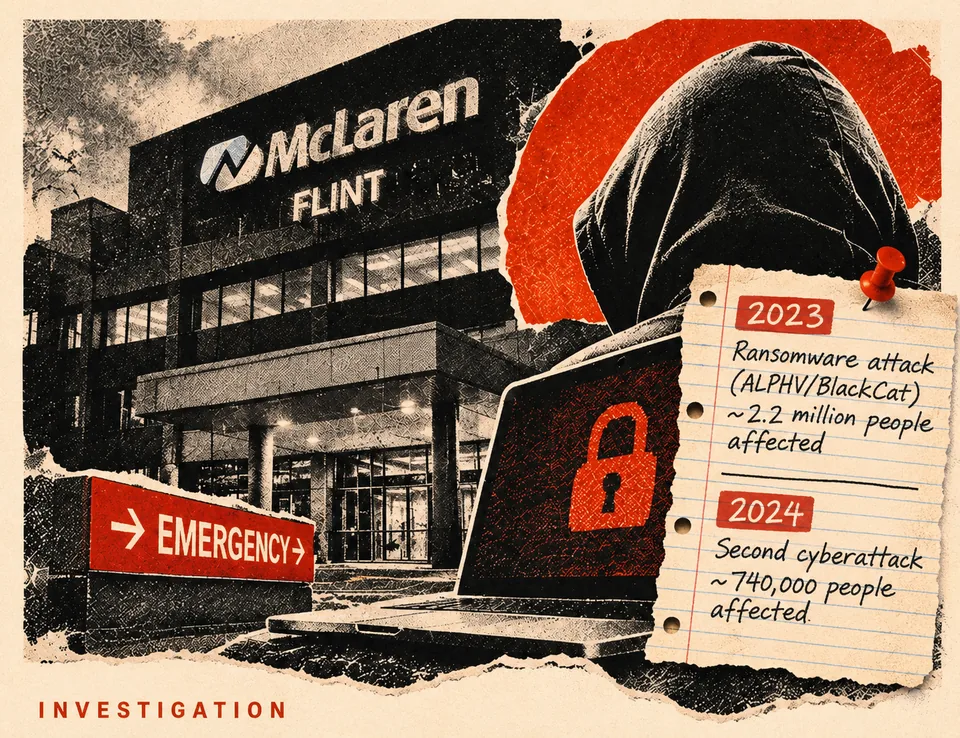
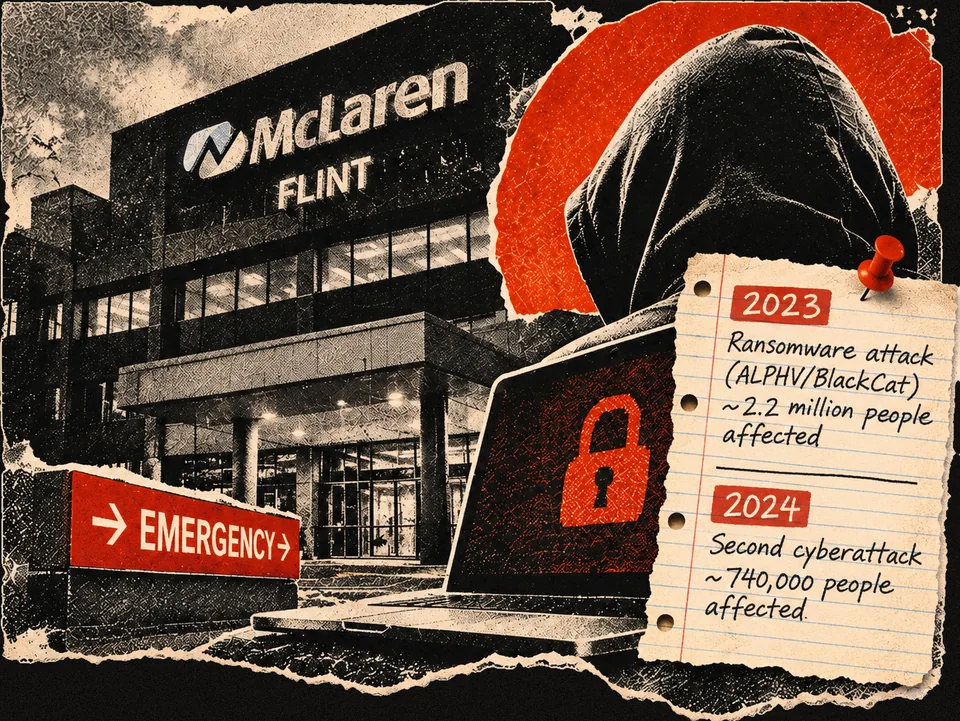
McLaren cover: remove tan paper background and INVESTIGATION label (Jamiah's edit request)

diff --git a/src/data/covers.js b/src/data/covers.js
@@ -13,9 +13,9 @@ export const SEO_COVERS = {
   mclaren: {
     filePrefix: 'cover-mclaren-1536',
     width: 1536,
-    height: 1182,
+    height: 1153,
     type: 'image/webp',
-    alt: 'Cover collage: the McLaren Flint hospital building with a red \u201cEmergency\u201d sign, a hooded figure in front of a red sun behind a laptop showing a padlock, an \u201cInvestigation\u201d label, and a pinned note reading \u201c2023: Ransomware attack (ALPHV/BlackCat), ~2.2 million people affected\u201d and \u201c2024: Second cyberattack, ~740,000 people affected\u201d.',
+    alt: 'Cover collage: the McLaren Flint hospital building with a red \u201cEmergency\u201d sign, a hooded figure in front of a red sun behind a laptop showing a padlock, and a pinned note reading \u201c2023: Ransomware attack (ALPHV/BlackCat), ~2.2 million people affected\u201d and \u201c2024: Second cyberattack, ~740,000 people affected\u201d.',
   },
   jonathanJames: {
     filePrefix: 'cover-jonathan-james-1448',
